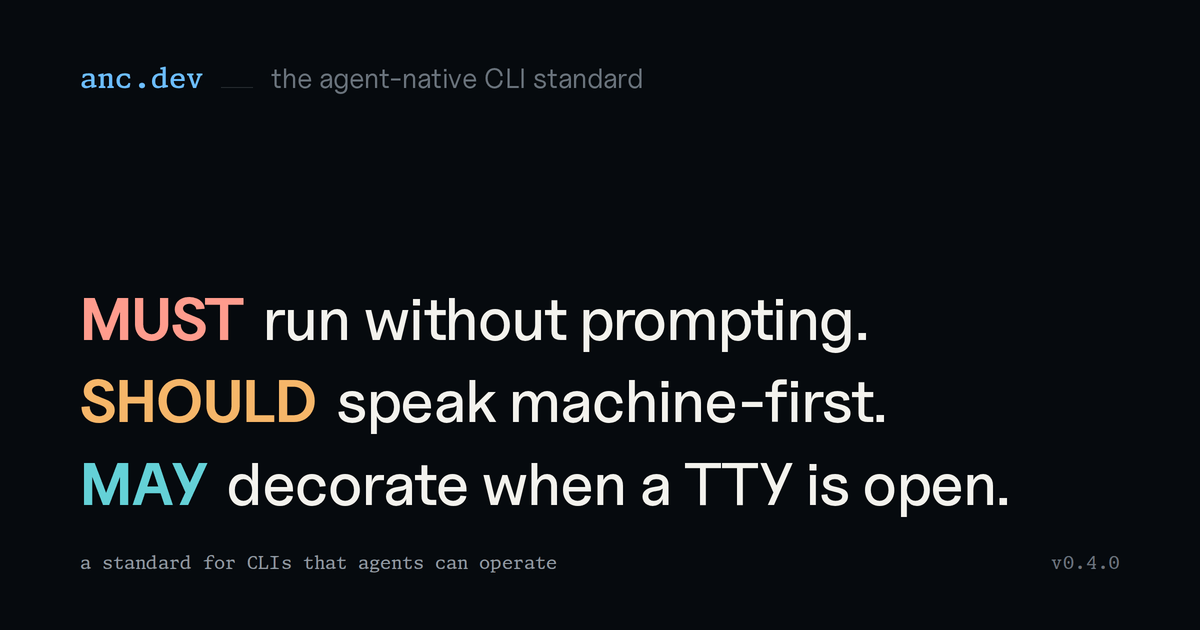
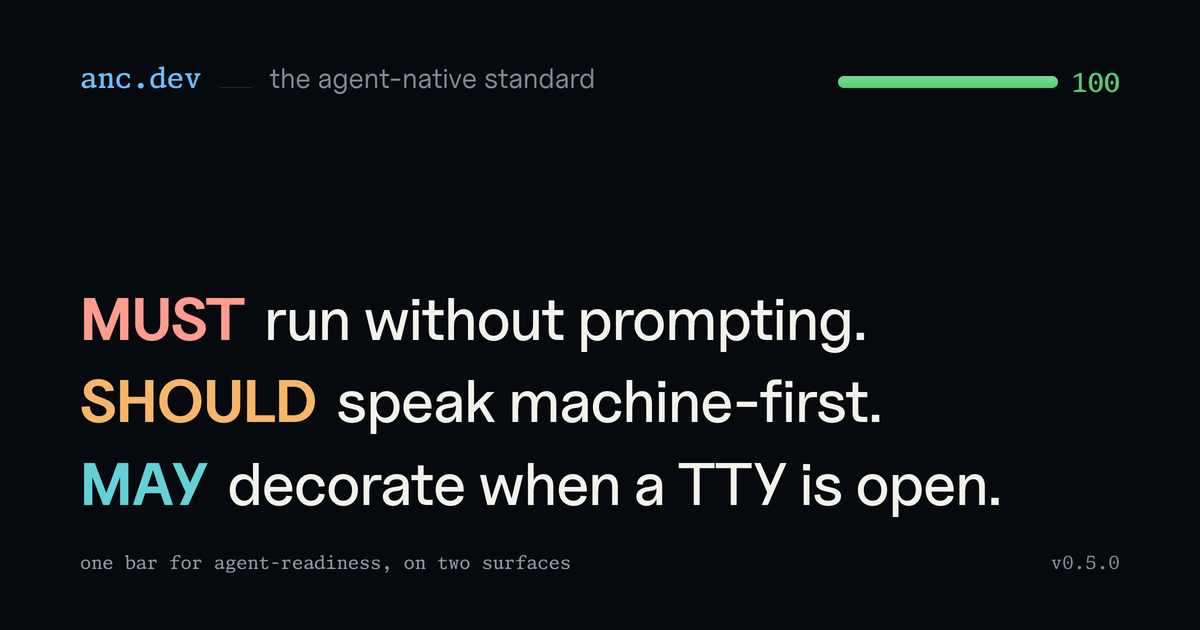
feat(design): OG card on the instrument identity, mobile overflow fixes, archetype gates
The OG card picks up the new framing and the instrument signature: tagline "the agent-native standard", cite "one bar for agent-readiness, on two surfaces", and a band-high score meter in the brand row reading anc's own audit (100). The shared og:image alt describes the new card. Regeneration is byte-deterministic across two runs; the generator honors PW_CHANNEL for machines where Playwright-managed browser downloads stall, and the Playwright config scopes that override to Chromium-family projects so the WebKit projects run the managed browser.

Mobile overflow fixes across archetypes: inline code wraps at narrow widths, the scorecard hero id column shrinks and its meta row wraps, score cells collapse to zero-min columns under 560px, audit detail tables get fixed layout with wrapping cells, and the leaderboard columns collapse in stages (description at 900, language and meter tracks at 720, tier at 560).

New e2e gates cover the Verification Contract: axe light and dark on a CLI scorecard, a web scorecard, the board, and the web-audit landing, plus a no-horizontal-overflow sweep of every archetype at 390/768/1440.

diff --git a/src/styles/site.css b/src/styles/site.css
@@ -181,6 +181,7 @@ main :not(pre) > code {
   padding: 0.15rem 0.4rem;
   border-radius: 0.3rem;
   font-size: 0.95em;
+  overflow-wrap: anywhere;
 }
 
 /* Anchor permalinks (rehype-autolink-headings). Hidden until heading hover / focus. */
@@ -256,6 +257,7 @@ main .anchor-icon {
   margin: 0;
   padding: 1.5rem 1.5rem 1.5rem calc(1.5rem + 1.1em);
   display: grid;
+  grid-template-columns: minmax(0, 1fr);
   gap: 0.75rem;
 }
 .normative li > p {
@@ -1214,6 +1216,10 @@ body:has(.doc) main {
   width: 100%;
   border-collapse: collapse;
   font-size: 0.88rem;
+  table-layout: fixed;
+}
+.audit-table td {
+  overflow-wrap: anywhere;
 }
 .audit-hero .live-score__help {
   margin: var(--space-3) 0 0;
@@ -1630,14 +1636,22 @@ body:has(.leaderboard-hero) main {
   font-size: 0.88rem;
 }
 
-/* Responsive: collapse description and language on small screens */
+/* Responsive: stage the board's column collapse — description first,
+ * then language + meter tracks (numerals stay), then the tier badge. */
+@media (max-width: 900px) {
+  .lb-desc {
+    display: none;
+  }
+}
 @media (max-width: 720px) {
   body:has(.leaderboard-hero) main {
     max-width: 100%;
     padding-inline: 1rem;
   }
-  .lb-desc,
   .lb-lang {
+    display: none;
+  }
+  .lb-score .meter__track {
     display: none;
   }
   .leaderboard-table th,
@@ -1647,6 +1661,11 @@ body:has(.leaderboard-hero) main {
   .tier-badge {
     font-size: 0.65rem;
     padding: 0.1rem 0.35rem;
+  }
+}
+@media (max-width: 560px) {
+  .lb-tier {
+    display: none;
   }
 }
 
@@ -1684,6 +1703,12 @@ body:has(.scorecard-page) main {
   letter-spacing: -0.02em;
   line-height: 1.1;
   margin: 0;
+}
+.scorecard-hero__id {
+  min-width: 0;
+}
+.scorecard-hero__id p {
+  overflow-wrap: anywhere;
 }
 .scorecard-hero__cmd {
   margin: var(--space-4) 0 0;
@@ -1868,6 +1893,11 @@ main .remediation__body {
     justify-self: start;
   }
 }
+@media (max-width: 560px) {
+  .scorecard-hero__scores {
+    grid-template-columns: repeat(2, minmax(0, 1fr));
+  }
+}
 
 /* Web result page — category cards with marked check rows. */
 .scorecard-hero__note {
@@ -2010,6 +2040,7 @@ main .remediation__body {
 
 .scorecard-header__meta {
   display: flex;
+  flex-wrap: wrap;
   align-items: center;
   gap: 0.75rem;
   color: var(--fg-muted, #525960);
@@ -2116,6 +2147,10 @@ main .remediation__body {
   width: 100%;
   border-collapse: collapse;
   font-size: 0.88rem;
+  table-layout: fixed;
+}
+.audit-table td {
+  overflow-wrap: anywhere;
 }
 
 .audit-table td {

diff --git a/scripts/og/og.css b/scripts/og/og.css
@@ -85,6 +85,37 @@ body {
 }
 .brand__tag { color: var(--fg-muted); font-weight: 400; }
 
+/* Score meter — the instrument's signature, top-right. Fill and numeral
+ * read anc's own audit (anc scores 100 on the ANC 100); re-check the
+ * board before bumping the number. Band tokens come from foundation.css. */
+.brand__meter {
+  margin-left: auto;
+  display: inline-grid;
+  grid-template-columns: 220px auto;
+  align-items: center;
+  gap: 14px;
+}
+.brand__meter-track {
+  height: 12px;
+  border-radius: 999px;
+  background: var(--meter-track);
+  overflow: hidden;
+}
+.brand__meter-fill {
+  display: block;
+  height: 100%;
+  width: 100%;
+  border-radius: 999px;
+  background: linear-gradient(180deg, color-mix(in oklab, var(--band-high-bar) 80%, white 20%), var(--band-high-bar));
+}
+.brand__meter-num {
+  font-family: var(--font-mono);
+  font-feature-settings: var(--ff-mono), var(--ff-tabular);
+  font-size: 26px;
+  font-weight: 600;
+  color: var(--band-high);
+}
+
 /* Manifesto. Three telegraphic statements, each governed by a color-coded
  * RFC 2119 keyword.
  *

diff --git a/tests/e2e/flows.e2e.ts b/tests/e2e/flows.e2e.ts
@@ -95,6 +95,31 @@ test.describe('keyboard + a11y', () => {
     await injectAxe(page);
     await checkA11y(page, undefined, AXE_OPTS);
   });
+
+  // One representative page per remaining archetype, light and dark.
+  for (const path of ['/score/ripgrep', '/web/anc.dev', '/scorecards', '/web-audit']) {
+    for (const scheme of ['light', 'dark'] as const) {
+      test(`axe: 0 serious/critical violations on ${path} in ${scheme} mode`, async ({ page }) => {
+        await page.emulateMedia({ colorScheme: scheme });
+        await page.goto(path);
+        await injectAxe(page);
+        await checkA11y(page, undefined, AXE_OPTS);
+      });
+    }
+  }
+
+  test('no horizontal overflow at 390/768/1440 on each archetype', async ({ page }) => {
+    for (const path of ['/p1', '/score/ripgrep', '/web/anc.dev', '/scorecards', '/web', '/web-audit', '/install']) {
+      for (const width of [390, 768, 1440]) {
+        await page.setViewportSize({ width, height: 900 });
+        await page.goto(path);
+        const overflow = await page.evaluate(
+          () => document.documentElement.scrollWidth - document.documentElement.clientWidth,
+        );
+        expect(overflow, `overflow on ${path} at ${width}px`).toBeLessThanOrEqual(0);
+      }
+    }
+  });
 });
 
 test.describe('code-copy + anchor-copy', () => {

diff --git a/playwright.config.ts b/playwright.config.ts
@@ -43,15 +43,15 @@ export default defineConfig({
     baseURL: BASE_URL,
     trace: 'retain-on-failure',
     screenshot: 'only-on-failure',
-    // PW-managed browser downloads stall on some dev machines. Setting
-    // PW_CHANNEL=chrome points Chromium-family projects at the installed
-    // Google Chrome instead; CI leaves it unset and uses managed browsers.
-    ...(process.env.PW_CHANNEL ? { channel: process.env.PW_CHANNEL } : {}),
   },
+  // PW-managed browser downloads stall on some dev machines. Setting
+  // PW_CHANNEL=chrome points Chromium-family projects at the installed
+  // Google Chrome instead (WebKit projects ignore it — channel is a
+  // Chromium concept); CI leaves it unset and uses managed browsers.
   projects: [
     {
       name: 'chromium',
-      use: { ...devices['Desktop Chrome'] },
+      use: { ...devices['Desktop Chrome'], ...(process.env.PW_CHANNEL ? { channel: process.env.PW_CHANNEL } : {}) },
       // Live opt-in projects (skill, homepage-score-live, staging-mcp)
       // are excluded from the default suite — they hit real network
       // endpoints (github.com clone hosts, the staging Worker) that the
@@ -64,12 +64,12 @@ export default defineConfig({
         /web-audit\.e2e\.ts/,
       ],
     },
-    { name: 'mobile-android', use: { ...devices['Pixel 7'] }, testMatch: /flows\.e2e\.ts/ },
+    { name: 'mobile-android', use: { ...devices['Pixel 7'], ...(process.env.PW_CHANNEL ? { channel: process.env.PW_CHANNEL } : {}) }, testMatch: /flows\.e2e\.ts/ },
     { name: 'mobile-ios', use: { ...devices['iPhone 13'] }, testMatch: /flows\.e2e\.ts/ },
     { name: 'tablet', use: { ...devices['iPad Pro 11'] }, testMatch: /flows\.e2e\.ts/ },
     {
       name: 'skill',
-      use: { ...devices['Desktop Chrome'] },
+      use: { ...devices['Desktop Chrome'], ...(process.env.PW_CHANNEL ? { channel: process.env.PW_CHANNEL } : {}) },
       testMatch: /skill\.e2e\.ts/,
       // Live `git clone` against github.com over the network — give it room.
       timeout: 60_000,
@@ -79,7 +79,7 @@ export default defineConfig({
       // Live staging Worker. Set ANC_STAGING_BASE_URL before invoking;
       // see tests/e2e/homepage-score-live.e2e.ts for full env contract.
       // Excluded from the default suite; run with --project=homepage-score-live.
-      use: { ...devices['Desktop Chrome'] },
+      use: { ...devices['Desktop Chrome'], ...(process.env.PW_CHANNEL ? { channel: process.env.PW_CHANNEL } : {}) },
       testMatch: /homepage-score-live\.e2e\.ts/,
       // Real Sandbox container cold starts and Turnstile siteverify
       // round-trips push the per-test budget past Playwright's default.
@@ -96,7 +96,7 @@ export default defineConfig({
       // --project=staging-mcp` after a staging deploy or when triaging
       // an MCP regression the bun unit layer can't reproduce against
       // workerd.
-      use: { ...devices['Desktop Chrome'] },
+      use: { ...devices['Desktop Chrome'], ...(process.env.PW_CHANNEL ? { channel: process.env.PW_CHANNEL } : {}) },
       testMatch: /(?:mcp|discoverability)\.e2e\.ts/,
     },
     {
@@ -108,7 +108,7 @@ export default defineConfig({
       // auth) before invoking; excluded from the default suite because it
       // makes real outbound probes to anc.dev. Run with:
       //   bun x playwright test --project=web-audit
-      use: { ...devices['Desktop Chrome'] },
+      use: { ...devices['Desktop Chrome'], ...(process.env.PW_CHANNEL ? { channel: process.env.PW_CHANNEL } : {}) },
       testMatch: /web-audit\.e2e\.ts/,
       // 32 probes + discovery + a DNS fan-out against a live target.
       timeout: 90_000,

diff --git a/scripts/og/og.html b/scripts/og/og.html
@@ -13,7 +13,11 @@
     <div class="brand">
       <span class="brand__domain">anc.dev</span>
       <span class="brand__rule" aria-hidden="true"></span>
-      <span class="brand__tag">the agent-native CLI standard</span>
+      <span class="brand__tag">the agent-native standard</span>
+      <span class="brand__meter" aria-hidden="true">
+        <span class="brand__meter-track"><span class="brand__meter-fill"></span></span>
+        <span class="brand__meter-num">100</span>
+      </span>
     </div>
 
     <div class="manifesto">
@@ -23,7 +27,7 @@
     </div>
 
     <div class="foot">
-      <span class="foot__cite">a standard for CLIs that agents can operate</span>
+      <span class="foot__cite">one bar for agent-readiness, on two surfaces</span>
       <span class="foot__version" data-version>v0.1.0</span>
     </div>
   </div>

diff --git a/scripts/og/generate.ts b/scripts/og/generate.ts
@@ -66,7 +66,10 @@ async function main(): Promise<number> {
   const version = `v${specVersion}`;
   process.stderr.write(`reading og.html, injecting version=${version}\n`);
 
-  const browser = await chromium.launch();
+  // PW_CHANNEL=chrome renders with the installed Google Chrome on dev
+  // machines where Playwright-managed browser downloads stall; CI leaves
+  // it unset and uses the managed Chromium.
+  const browser = await chromium.launch(process.env.PW_CHANNEL ? { channel: process.env.PW_CHANNEL } : {});
   let pngBuffer: Buffer;
   try {
     const ctx = await browser.newContext({

diff --git a/tests/build.test.ts b/tests/build.test.ts
@@ -301,7 +301,7 @@ describe('emitShell — OG image alt text', () => {
     const html = shell();
     expect(html).toContain('property="og:image:alt"');
     expect(html).toContain(
-      'content="agent-native CLI standard — anc.dev — a standard for CLIs that agents can operate"',
+      'content="anc.dev, the agent-native standard: MUST run without prompting, SHOULD speak machine-first, MAY decorate when a TTY is open. One bar for agent-readiness, on two surfaces."',
     );
   });
 